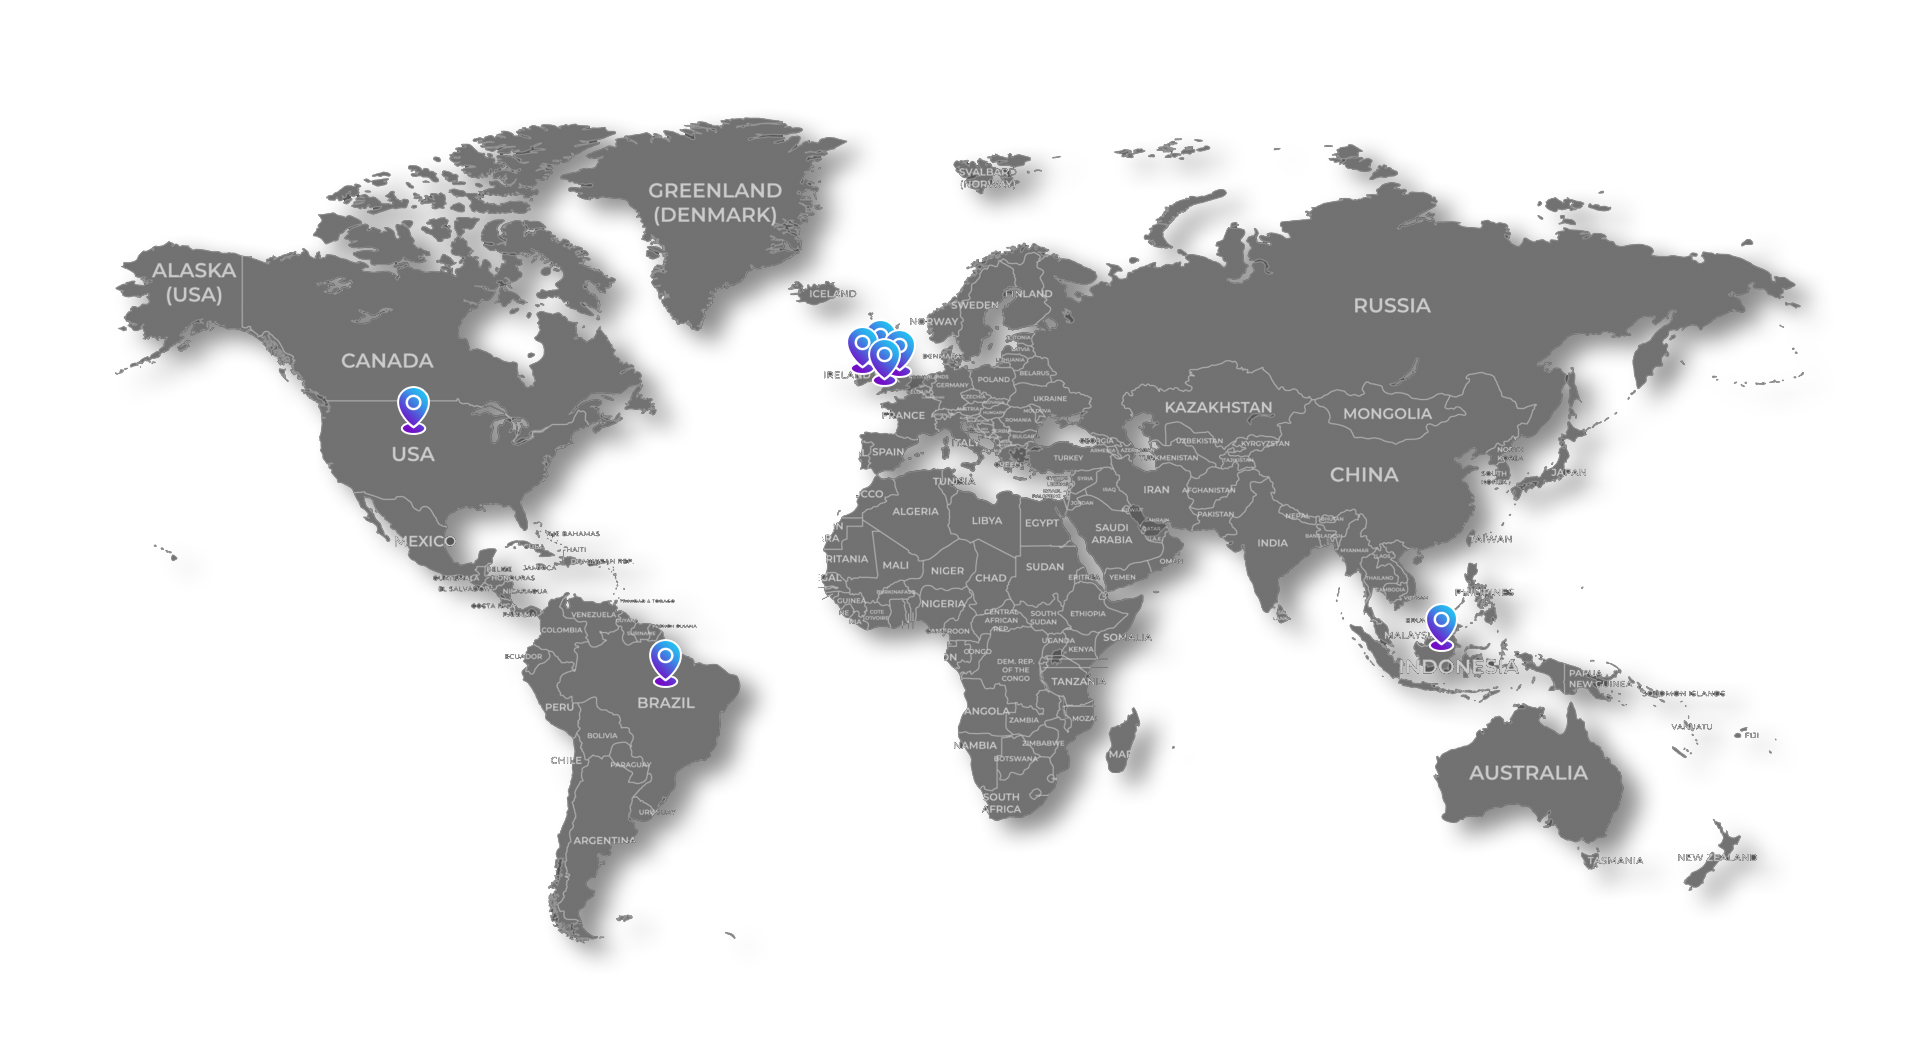
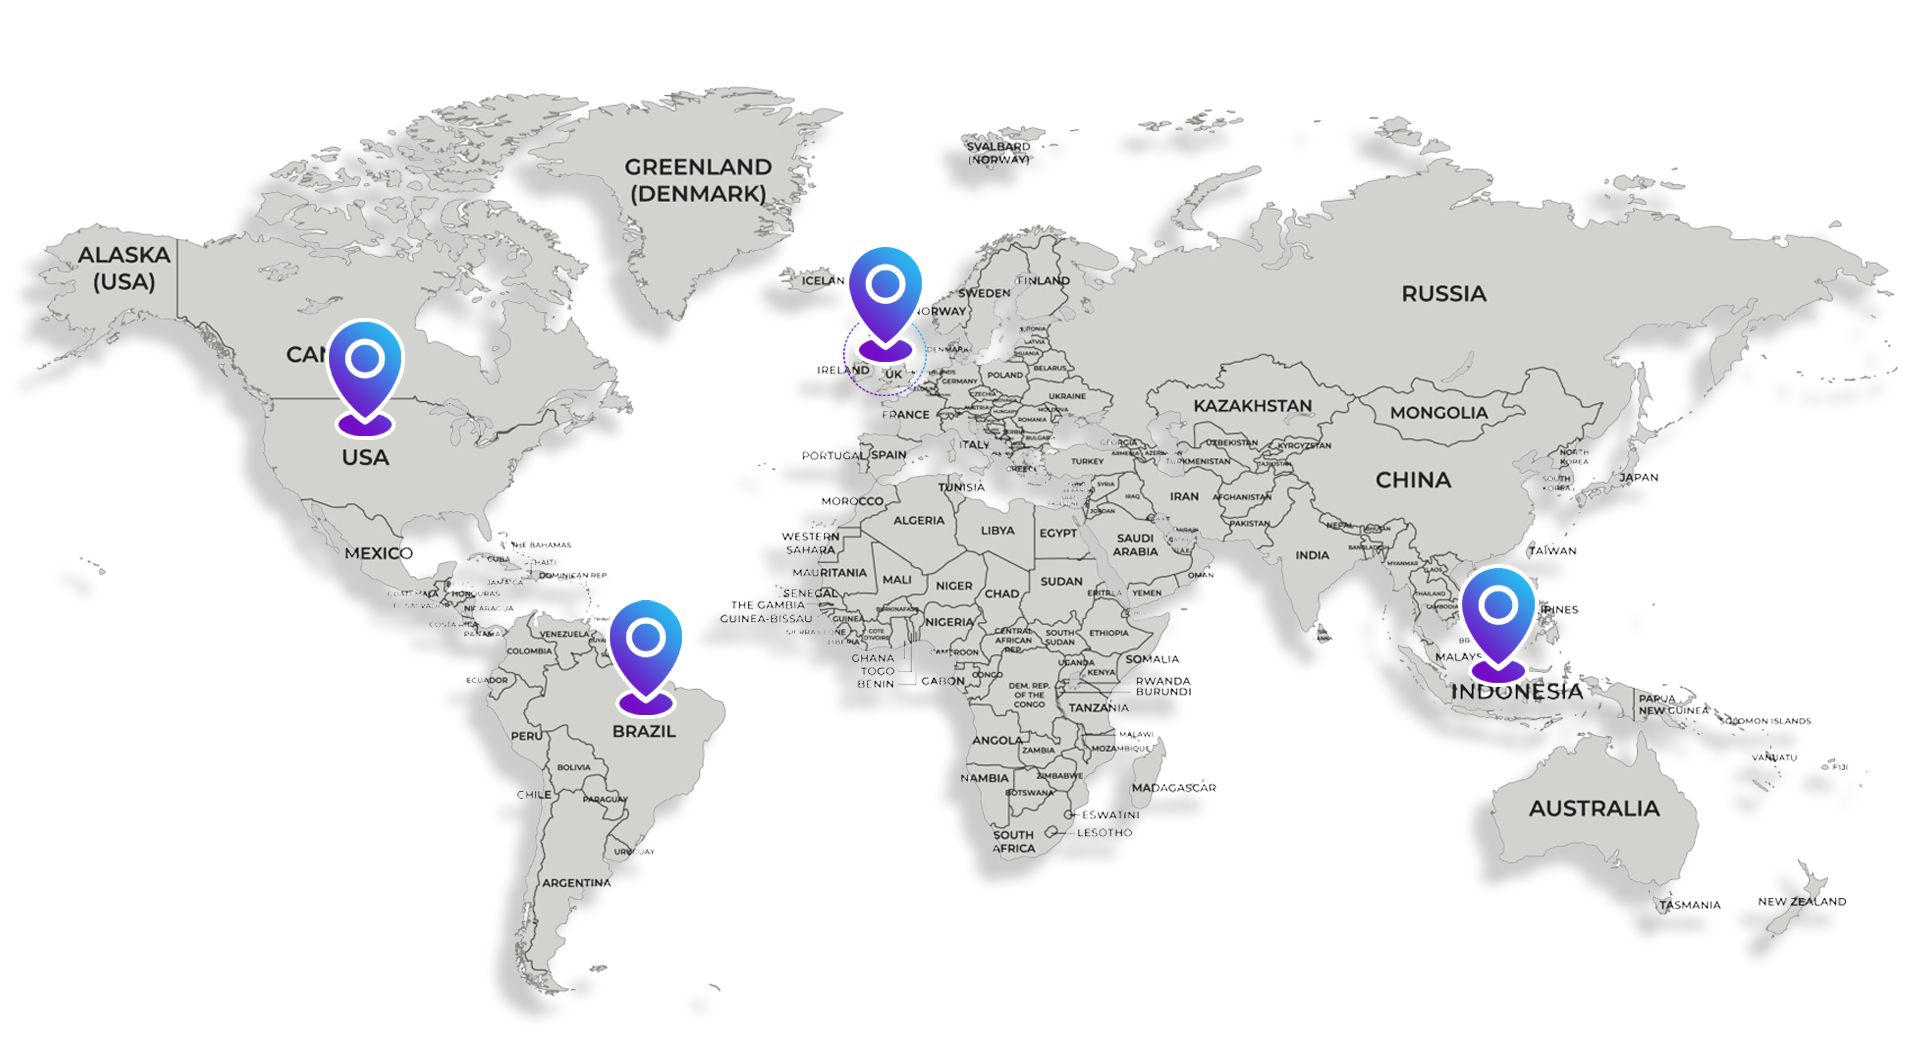
Mapa adicionado a Home
Mapa adicionado a Home

diff --git a/public/index.html b/public/index.html
@@ -41,7 +41,7 @@
       <div class="nav-btns">
         <button class="medium-btn"><a href="cadastro.html">Cadastre-se</a></button>
         <button class="login-btn"><a href="login.html">Entrar</a></button>
-      </div>  
+      </div>
     </nav>
 
 
@@ -78,7 +78,7 @@
       </div>
 
       <div class="work-image">
-        <img src="assets/imgs/image 1.png" width="100%"/>
+        <img src="assets/imgs/image 1.png" width="100%" />
       </div>
     </div>
 
@@ -88,10 +88,11 @@
       </div>
       <div class="quem-somos card">
         <div class="titulo text-gradient" id="quemSomos">Quem Somos...</div>
-  
+
         <div class="right-side2">
           <div class="caixa-texto">
-            <span class="texto">Somos uma empresa especializada em monitoramento e segurança de renderfarms, comprometida
+            <span class="texto">Somos uma empresa especializada em monitoramento e segurança de renderfarms,
+              comprometida
               em garantir o máximo desempenho e a integridade do hardware de nossos clientes. Nossa missão é fornecer
               soluções inteligentes e eficientes para a manutenção de infraestruturas tecnológicas, assegurando que os
               sistemas de renderização operem de maneira contínua, sem falhas e com o menor tempo de inatividade
@@ -100,7 +101,7 @@
         </div>
       </div>
     </div>
-    
+
     <div class="traco-1">
       <img src="assets/imgs/traco 1.png" />
     </div>
@@ -179,10 +180,18 @@
     </div>
 
     <div class="box-map">
-  
-      <div class="img-map">
-        <img src="assets/imgs/mapa-home.png" width="80%">
+
+      <div class="left_side-map">
+        <img src="assets/imgs/mapa-home.png">
       </div>
+      
+      <div class="right-side-map">
+
+    <div class="titulo-alcance">
+      <div class="titulo text-gradient alcance" style="text-align: center;">Alcance</div>
+
+      <div class="titulo text-gradient alcance" style="text-align: center;">Internacional</div>
+    </div>
 
       <div class="caixa-texto-map">
         <span class="texto-map">Presentes em 7 países, incluindo Brasil, Estados Unidos e Inglaterra adaptamos nossa solução para atender às suas necessidades, onde quer que você esteja.
@@ -190,28 +199,31 @@
       </div>
 
     </div>
+  </div>
 
     <div class="container-hero5">
-      <div class="contact-image">
-        <img src="assets/imgs/image 12.png" width="40%">
-      </div>
 
       <div class="boxes">
         <div class="contact-title-container">
           <h2 class="titulo text-gradient contact-title" id="contateNos">Contate-nos</h2>
           <p class="contato-email">Envie para nós um e-mail</p>
         </div>
-  
+
         <div class="right-side4">
           <textarea id="textoEmail"></textarea>
         </div>
-  
+
         <button id="enviarEmail">Enviar Mensagem</button>
+      </div>
+
+      <div class="contact-image">
+        <img src="assets/imgs/image 12.png">
       </div>
     </div>
 
   </main>
 </body>
+
 </html>
 
 <script>

diff --git a/public/css/index.css b/public/css/index.css
@@ -179,7 +179,6 @@ main {
     background-color: #d9d9d956;
     border-radius: 10px;
     padding: 3rem 2rem;
-
     position: relative;
     box-shadow: 1px 1px 15px #1118274b;
     text-align: justify;
@@ -197,14 +196,13 @@ main {
 
 .contact-image {
     display: flex;
-    justify-content: center;
+    justify-content: end;
     align-items: center;
-
     margin-top: 30px;
 }
 
 .contact-image img {
-    width: 60%;
+    width: 75%;
 }
 
 .contact-title {
@@ -369,7 +367,7 @@ main {
     }
 
     .container-hero5 {
-        margin: 10rem 0 0 0;
+        margin: 8rem 0 0 0;
         display: flex;
         justify-content: space-between;
     }
@@ -474,4 +472,43 @@ main {
     opacity: 1;
     color: white;
     transform: scale(1.3);
+}
+
+.box-map {
+    display: flex;
+    justify-content: space-evenly;
+    align-items: center;
+    padding: 8rem 0 0 0;
+}
+
+.left_side-map img {
+    width: 50vw;
+}
+
+.caixa-texto-map {
+    border-radius: 8px;
+    background-color: #d9d9d956;
+    border-radius: 10px;
+    padding: 2rem 2rem 2rem ;
+    position: relative;
+    box-shadow: 1px 1px 15px #1118274b;
+    text-align: justify;
+    font-size: 20px;
+}
+
+.right-side-map {
+    width: 25vw;
+}
+
+.alcance {
+    word-break: break-word;
+    width: fit-content;
+    display: flex;
+    justify-content: center;
+}
+
+.titulo-alcance {
+    display: flex;
+    flex-direction: column;
+    align-items: center;
 }
